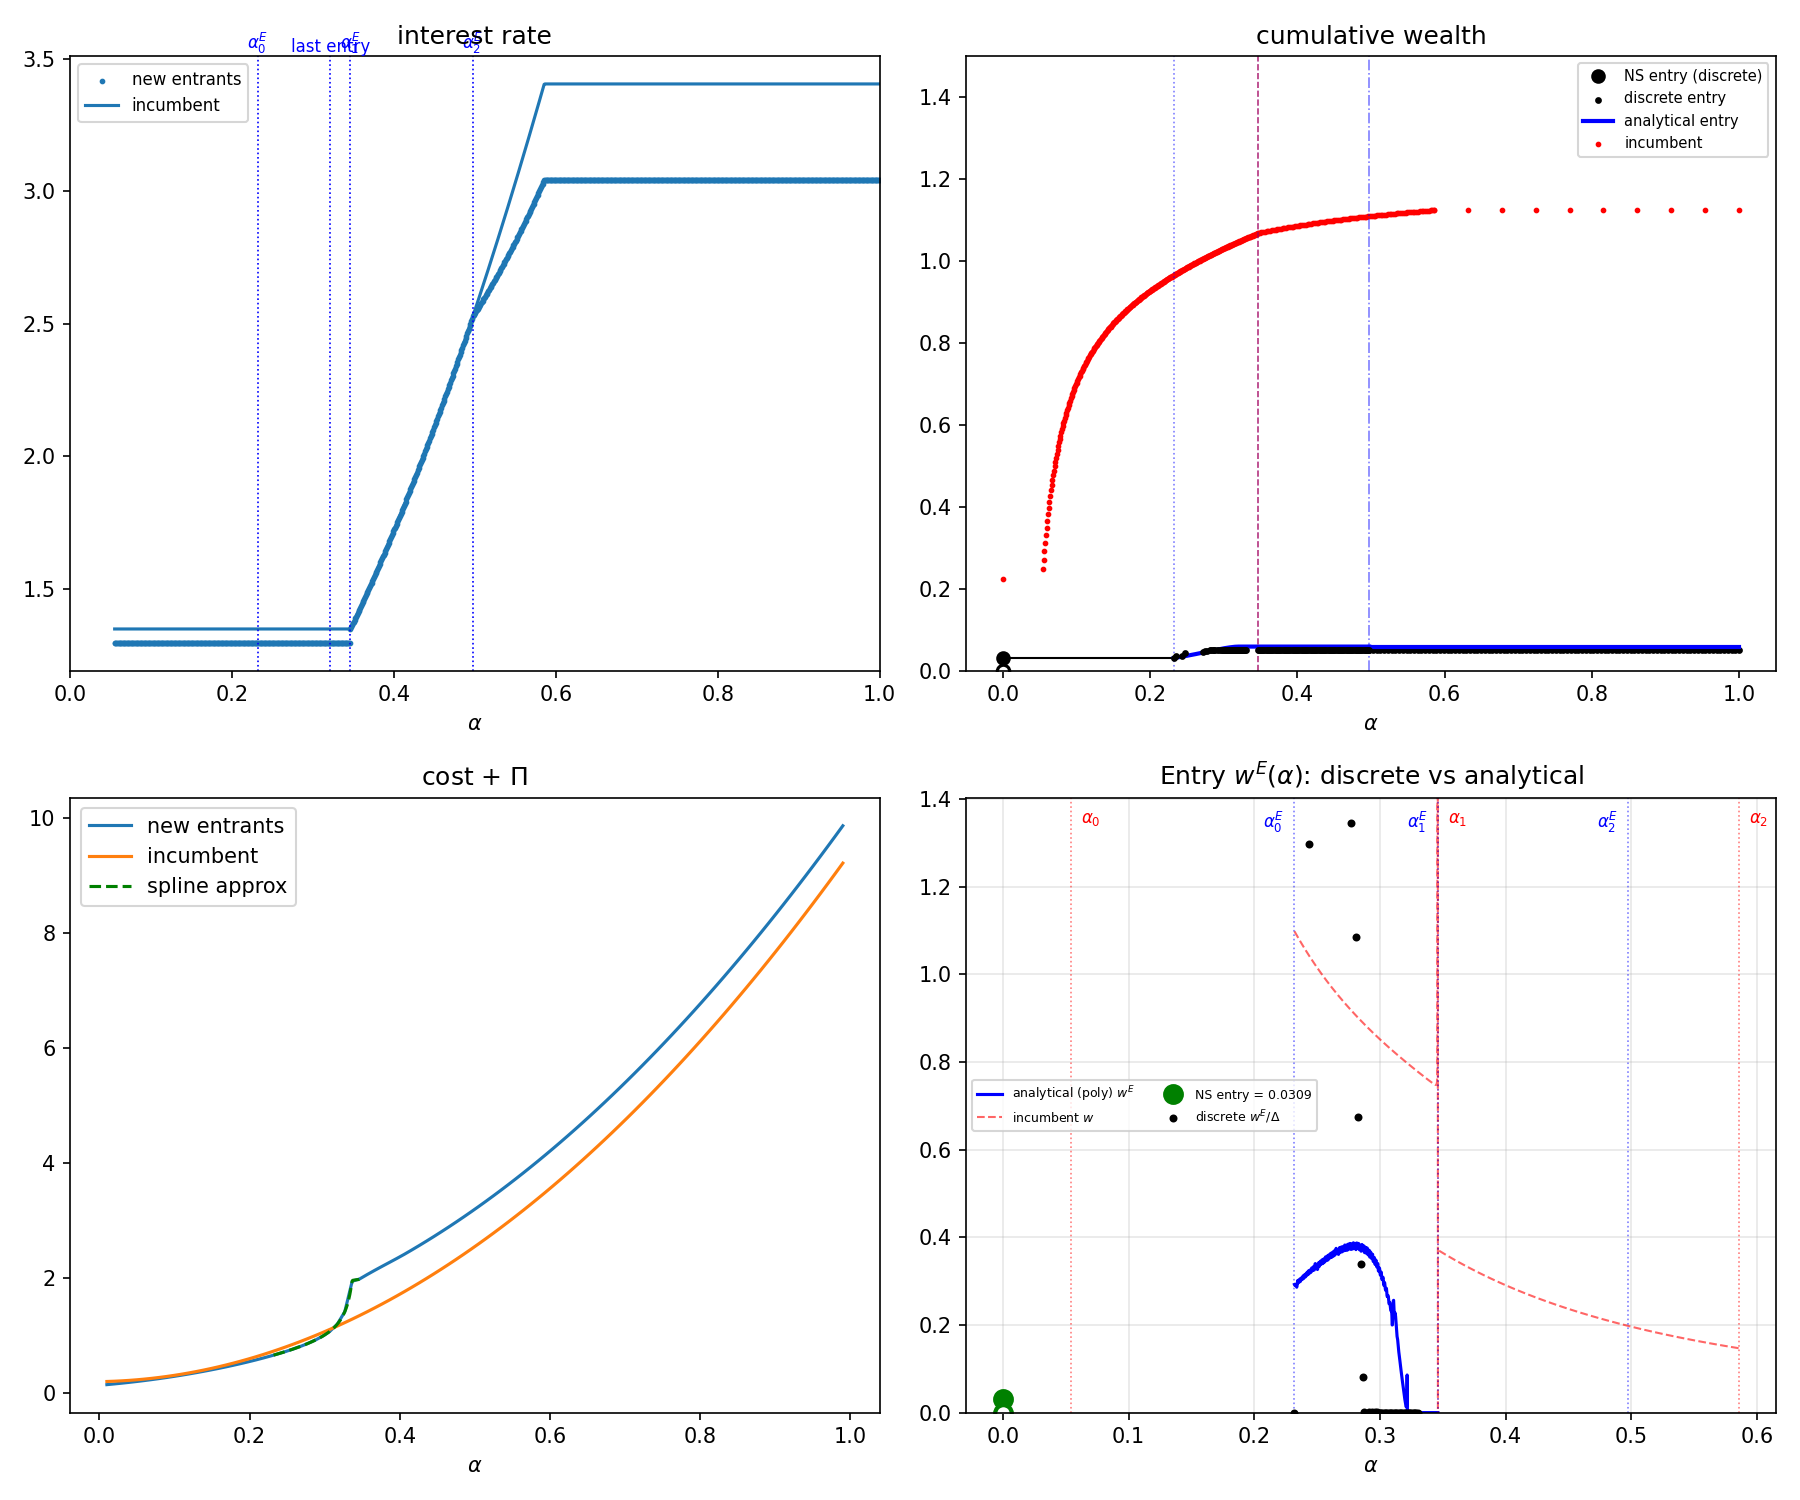
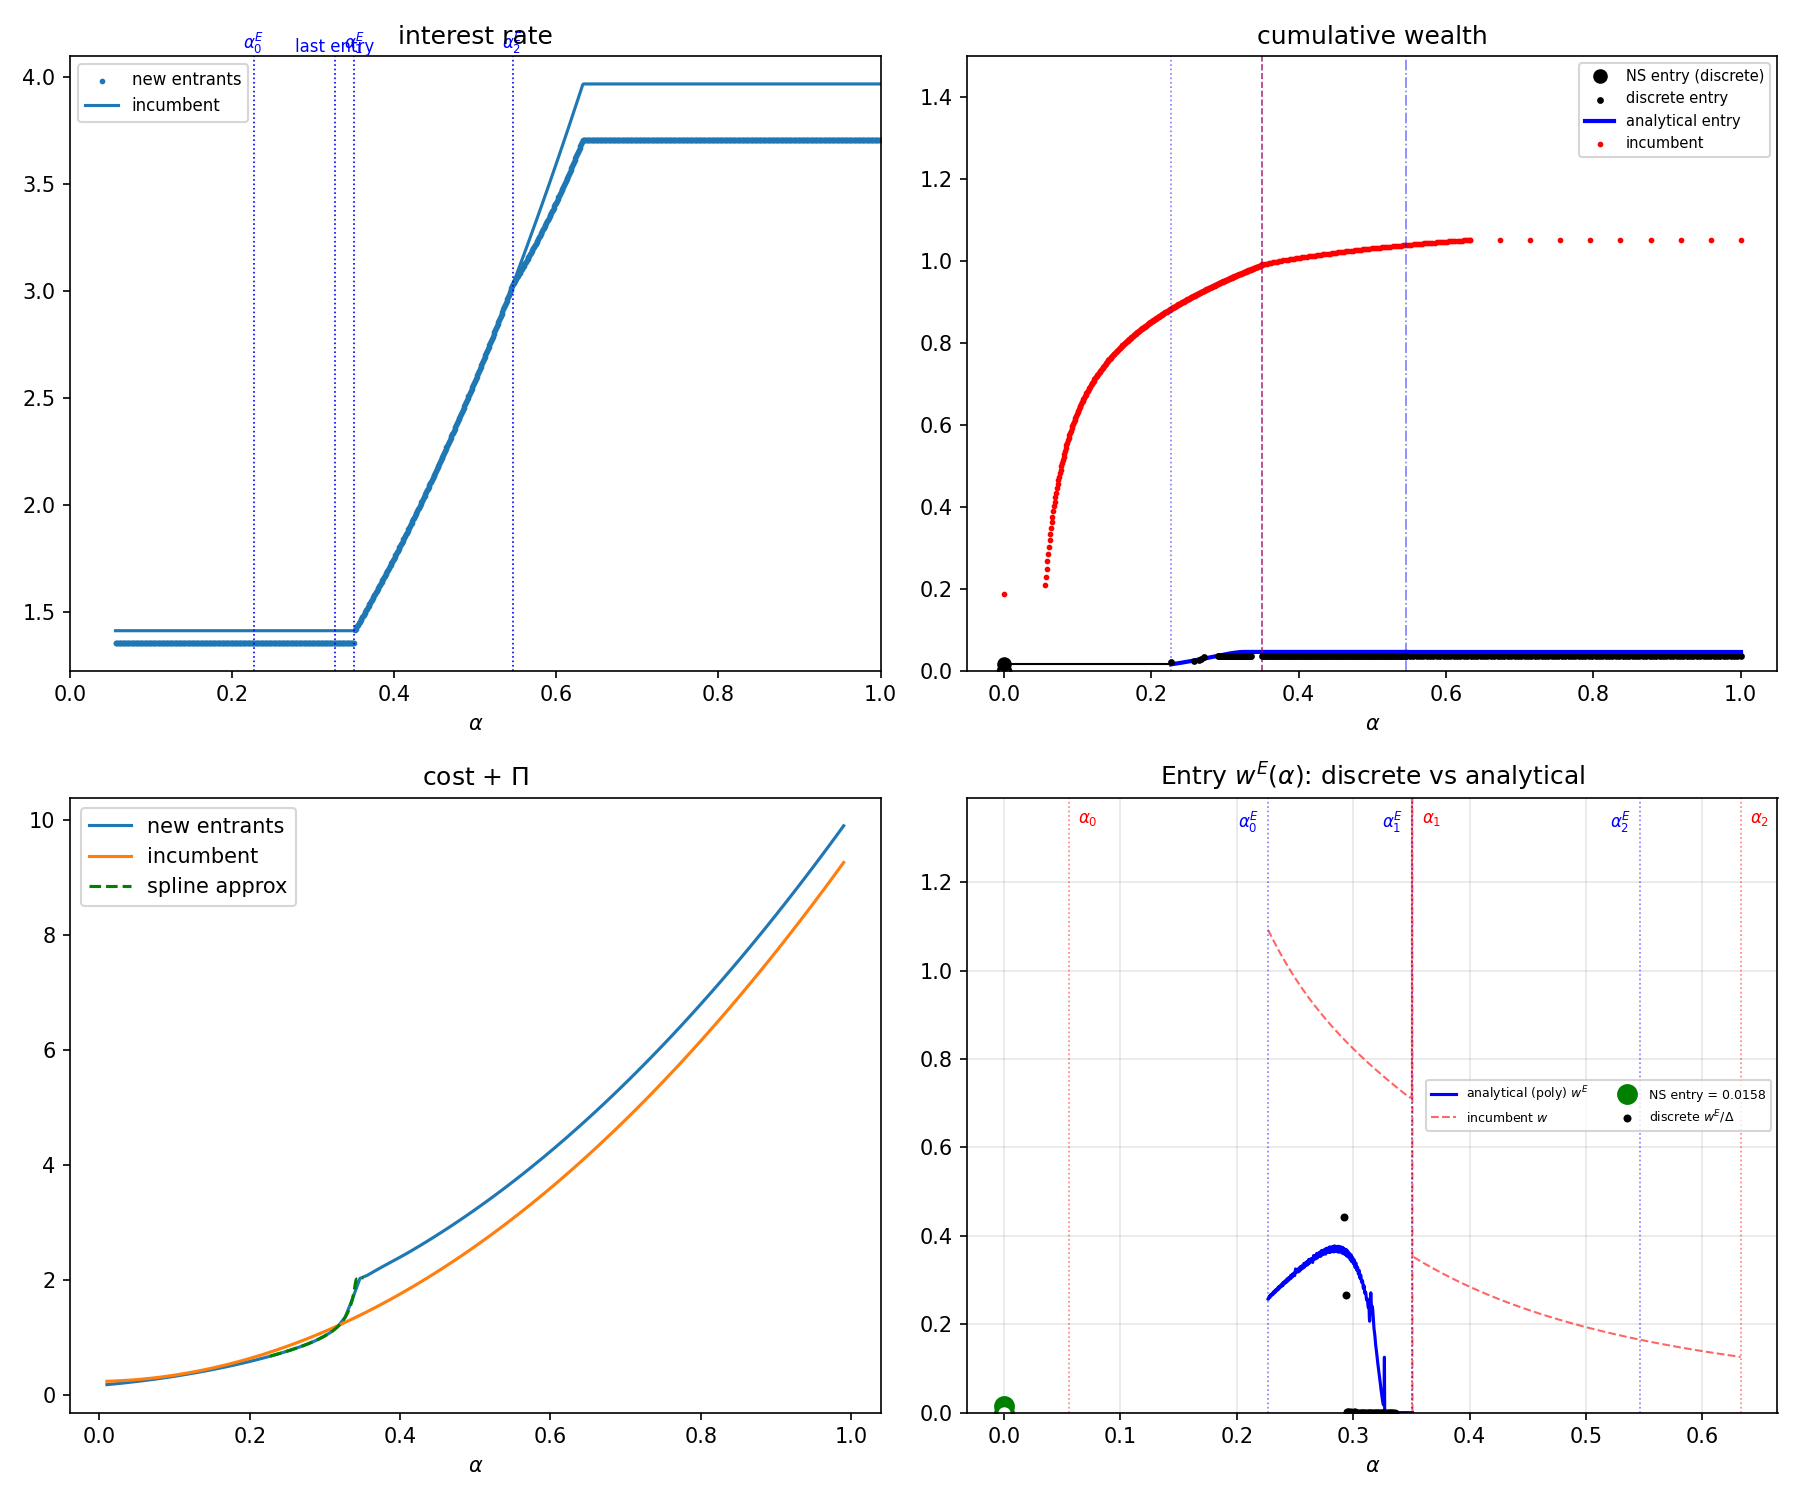
FIG9_OB_limited: lift Pi to 0.235 / Pi^E to 0.168 so Pi^E = K^E(0)
For the SP form, K^E(0) = γ(0)·(1+r_inner) - 1 is independent of Pi^E,
so the equation Pi^E = K^E(0) is a one-shot set (no fixed point). At
Pi=0.235 the resulting K^E(0) is 0.168, matching Pi^E to within 0.0002.

Effect on equilibrium objects:
- α₀, α₁ essentially unchanged (≤ 0.005 shift)
- α₀^E identical (0.232)
- Region IIb width preserved (0.086 vs 0.088 before)
- α₂ shifts up from 0.586 to 0.633 (+8%)
- r_NS levels rise ~16% (incumbents more expensive)
- r_NS drop shrinks from 0.36 to 0.26 (still clearly positive spillover)

diff --git a/mainE_python.py b/mainE_python.py
@@ -90,25 +90,30 @@ PARAM_CONFIGS = {
     },
     'FIG9_OB_limited': {
         'description': 'Figure 9a / fig:OB left - Open Banking, limited adoption (cost advantage at low alpha).',
-        # Legacy SP + add-ons form, restored as the starting point.
+        # Legacy SP + add-ons cost form (selection_preserving + legacy_addons).
         # K^E = γ(α)·(1 + D⁻¹((1/κ)·D((Π+1+C)/γ - 1))) - 1 - Π^E
-        #         + κ₁·α·(α-α̅)                       (distortion)
-        #         + 0.1·min(0.1·(1/(α₁-α) - 1/α₁), 100) if α<α₁  (low-α addon, spike near α₁)
-        #         + 0.1·(100 + (α-α₁))                  if α>α₁  (high-α addon)
-        # This is the parametrization that historically produced a wide Region IIb
-        # in figure 9a (α₀^E ≈ 0.22 — entrants concentrated near the top of pooling,
-        # heavy cream-skim, NS rate visibly down).  We will iterate parameters from
-        # here.
-        **_DEFAULT_INC_BASELINE,
+        #         + κ₁·α·(α-α̅)                                  (distortion)
+        #         + hyperbolic left addon (capped at 0.1·addon_cap, kink at α=α₁)
+        #         + parallel right piece (K^E rises in lockstep with K_inc for α>α₁)
+        #
+        # Pi/Pi^E chosen so that Pi^E = K^E(0) (i.e. zero entrant rents at α=0
+        # in the limit of the marginal lender breaking even).  K^E(0) for the SP
+        # form depends only on Pi and γ(0), not on Pi^E, so this is a one-shot
+        # set rather than a fixed point.  Pi=0.235 lifts the rate scale up by
+        # ~16% but preserves α₀, α₁, α₀^E and Region IIb width (0.086) almost
+        # exactly; r_NS drop shrinks from 0.36 to 0.26 (still clearly positive
+        # spillover).
+        'Pi': 0.235,
+        'beta': 0.5,
+        'BperG': 1.0,
+        'cfun': lambda alpha: 9.0 * alpha**2 + 0.2 * alpha,
         'has_entry': True,
-        'PiE': 0.1,
+        'PiE': 0.168,
         'cfunE_kind': 'selection_preserving',
         'cfunE_params': {'kappa': 1.1, 'use_smoothing': True,
                          'use_legacy_addons': True, 'kappa1_distortion': -4.0,
                          # Lowered from legacy 100 → kink slides from α≈0.336 to
-                         # α≈0.269 and K^E plateau drops from +10 to +1.  Outcome
-                         # (α₀^E≈0.22, Region IIb=0.088, r_NS drop=0.36) is unchanged
-                         # down to cap≈10; below that α₂^E flips above α₂.
+                         # α≈0.269 and K^E plateau drops from +10 to +1.
                          'addon_cap': 10.0},
     },
     'FIG9_OB_broad': {
